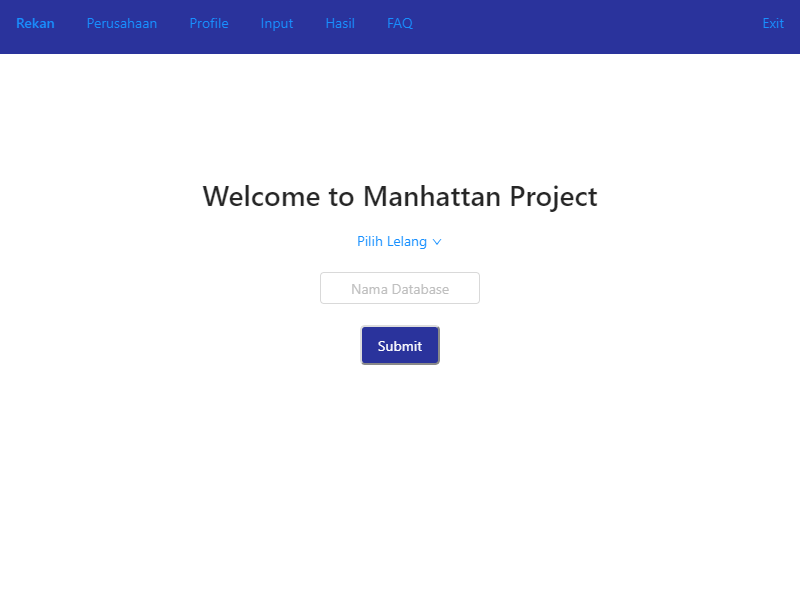
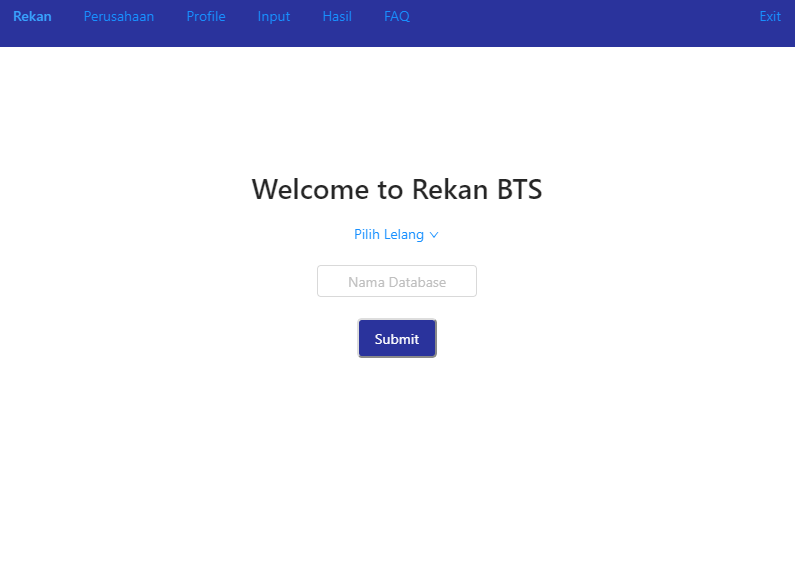
Adding more FAQ

diff --git a/frontend/src/pages/FAQ.js b/frontend/src/pages/FAQ.js
@@ -5,6 +5,9 @@ import step_2 from '../image/Step_2.PNG';
 import step_3 from '../image/Step_3.PNG';
 import step_4 from '../image/Step_4.PNG';
 import step_5 from '../image/Step_5.PNG';
+import Angka from '../image/Angka_Only.PNG';
+import Nominal from '../image/Nominal.PNG';
+import Error from '../image/Error.PNG';
 const { Panel } = Collapse;
 
 export default function FAQ() {
@@ -14,26 +17,46 @@ export default function FAQ() {
             <h1>FAQ</h1>
             <Collapse accordion>
                 <Panel header="Notification: Informasi Dasar Aplikasi" key="1">
-                <ul>
-                <li>
-                    <p>Aplikasi ini adalah aplikasi berbasis desktop menggunakan layanan internet, sehingga jaringan internet diperlukan agar
+                    <ul>
+                        <li>
+                            <p>Aplikasi ini adalah aplikasi berbasis desktop menggunakan layanan internet, sehingga jaringan internet diperlukan agar
                     aplikasi ini dapat bekerja</p>
-                </li>
-                <li>
-                    <p>Aplikasi ini sudah berada di versi stabil, namun masih banyak terdapat kekurangan dan
+                        </li>
+                        <li>
+                            <p>Aplikasi ini sudah berada di versi stabil, namun masih banyak terdapat kekurangan dan
                      banyak penambahan - penambahan fitur. Mohon pengertian terhadap kekurangannya</p>
-                </li>
-                </ul>
+                        </li>
+                        <li>
+                            <p>Dalam aplikasi ini perlu banyak untuk memilih lelang dan aplikasi, dan setiap terjadi refresh / muat Ulang
+                            page dimohon untuk memilih ulang lelang dan aplikasi</p>
+                        </li>
+                    </ul>
                 </Panel>
-                <Panel header="This is panel header 3" key="2">
-                    <p>testint</p>
+                <Panel header="Notification: Pemberitahuan Seputar Input" key="2">
+                    <ul>
+                        <li>
+                            <p>Dalam Page Input, ketika menginput data isian disarankan untuk memperhatikan pertanyaan yang akan dijawab dalam bentuk
+                    angka dan menjawab hanya dalam bentuk angka saja.</p>
+                            <img src={Angka}></img>
+                        </li>
+                        <li>
+                            <p>Dalam Page Input, ketika menginput data isian disarankan untuk memperhatikan pertanyaan yang akan dijawab dalam bentuk
+                    nominal dan menjawab hanya dalam bentuk angka saja</p>
+                            <img src={Nominal}></img>
+                        </li>
+                    </ul>
                 </Panel>
                 <Panel header="Tutorial: Cara Penggunaan Dasar" key="3">
                     <p>Step 1 : Pilih Tab Rekan lalu Pilih lelang atau buat lelang baru</p>
+                    <img src={step_1} style={{ width: "550px", height: "400px" }}></img>
                     <p>Step 2 : Pilih Tab Perusahaan lalu pilih perusahaan atau buat perusahaan baru</p>
+                    <img src={step_2} style={{ width: "550px", height: "400px" }}></img>
                     <p>Step 3 : Pilih Tab Input lalu inputkan data, dan tekan submit untuk mengirim data</p>
+                    <img src={step_3} style={{ width: "550px", height: "400px" }}></img>
                     <p>Step 4 : Ulangi Step 1 dan 2 kemudian pilih Tab Profil Untuk Melihat jawaban perusahaan</p>
+                    <img src={step_4} style={{ width: "550px", height: "400px" }}></img>
                     <p>Step 5 : Pilih Tab Hasil untuk melihat hasil nilai, status dan keterangan</p>
+                    <img src={step_5} style={{ width: "550px", height: "400px" }}></img>
                 </Panel>
                 <Panel header="This is panel header 3" key="4">
                     <p>testint</p>
@@ -42,7 +65,17 @@ export default function FAQ() {
                     <p>testint</p>
                 </Panel>
                 <Panel header="Troubleshoot: Terjadi Error dan Bagaimana cara mengatasinya" key="6">
-                    <p>testint</p>
+                    <ul>
+                        <li>
+                            <p>Ketika terjadi Error ataupun data tidak muncul, mohon untuk mengecek kembali apakah sudah memilih lelang atau perusahaan
+                    dengan melihat judul di atas page <strong>(Kotak Merah)</strong>. Apabila setelah memilih lelang atau perusahaan masih
+                    terdapat error, mohon cek jaringan internat anda.</p>
+                            <img src={Error} style={{ width: "550px", height: "300px" }}></img>
+                        </li>
+                        <li>
+                            <p>Apabila Setelah cara di atas masih terdapat Error, silahkan kirim Email ke yankahandra18@gmail.com</p>
+                        </li>
+                    </ul>
                 </Panel>
             </Collapse>
         </div>

diff --git a/frontend/src/pages/Landing.js b/frontend/src/pages/Landing.js
@@ -58,7 +58,7 @@ export default function Landing(props) {
 
     return (
         <div style={{ textAlign: "center", marginTop: '15%' }}>
-            <h1 style={{ textAlign: "center" }}>Welcome to Manhattan Project</h1>
+            <h1 style={{ textAlign: "center" }}>Welcome to Rekan BTS</h1>
             <div style={{ textAlign: "center" }}>
                 {/* Select Table */}
                 <Dropdown overlay={menu} trigger={['click']}>
